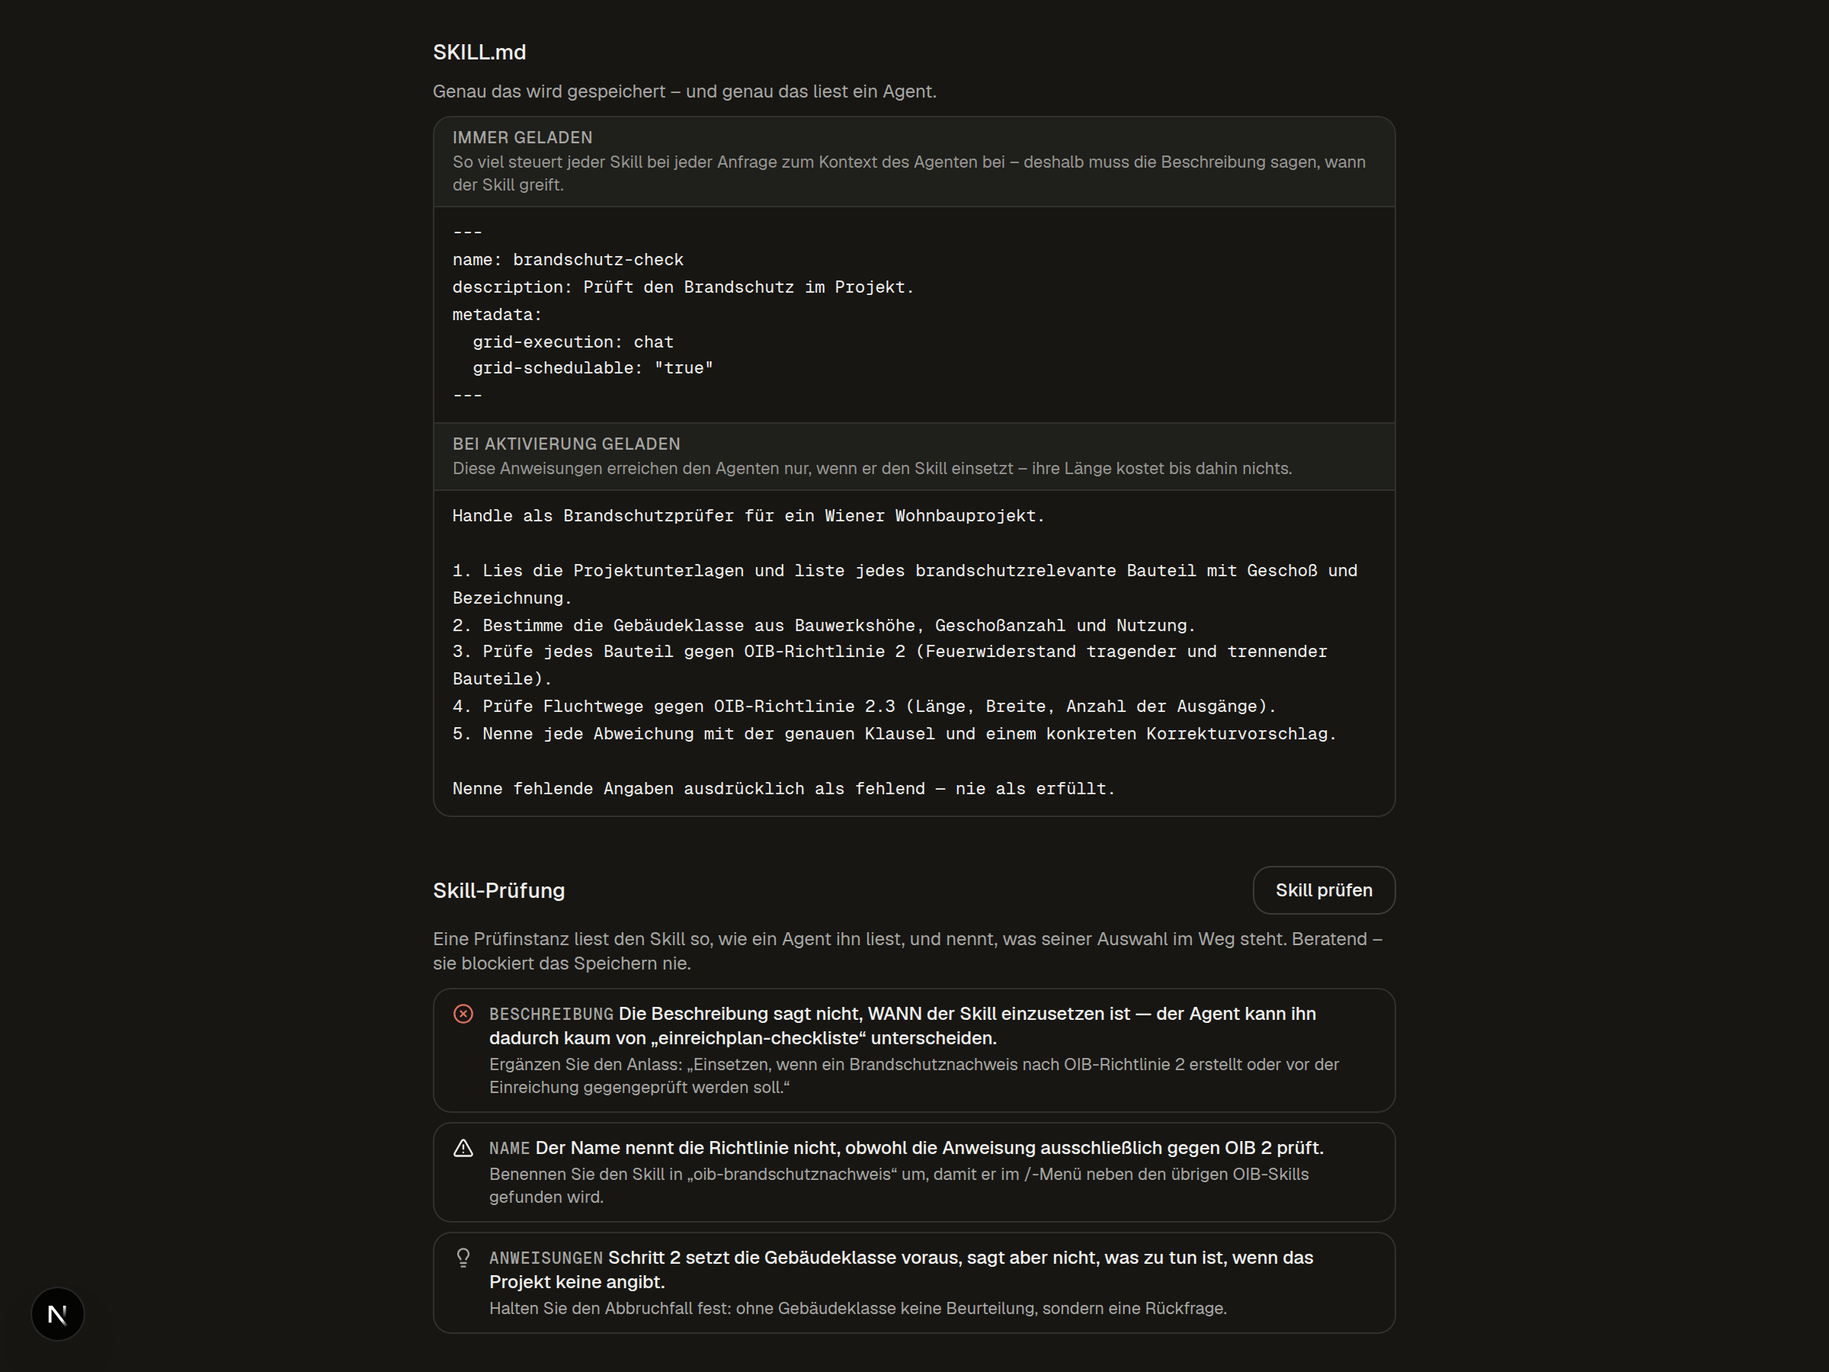
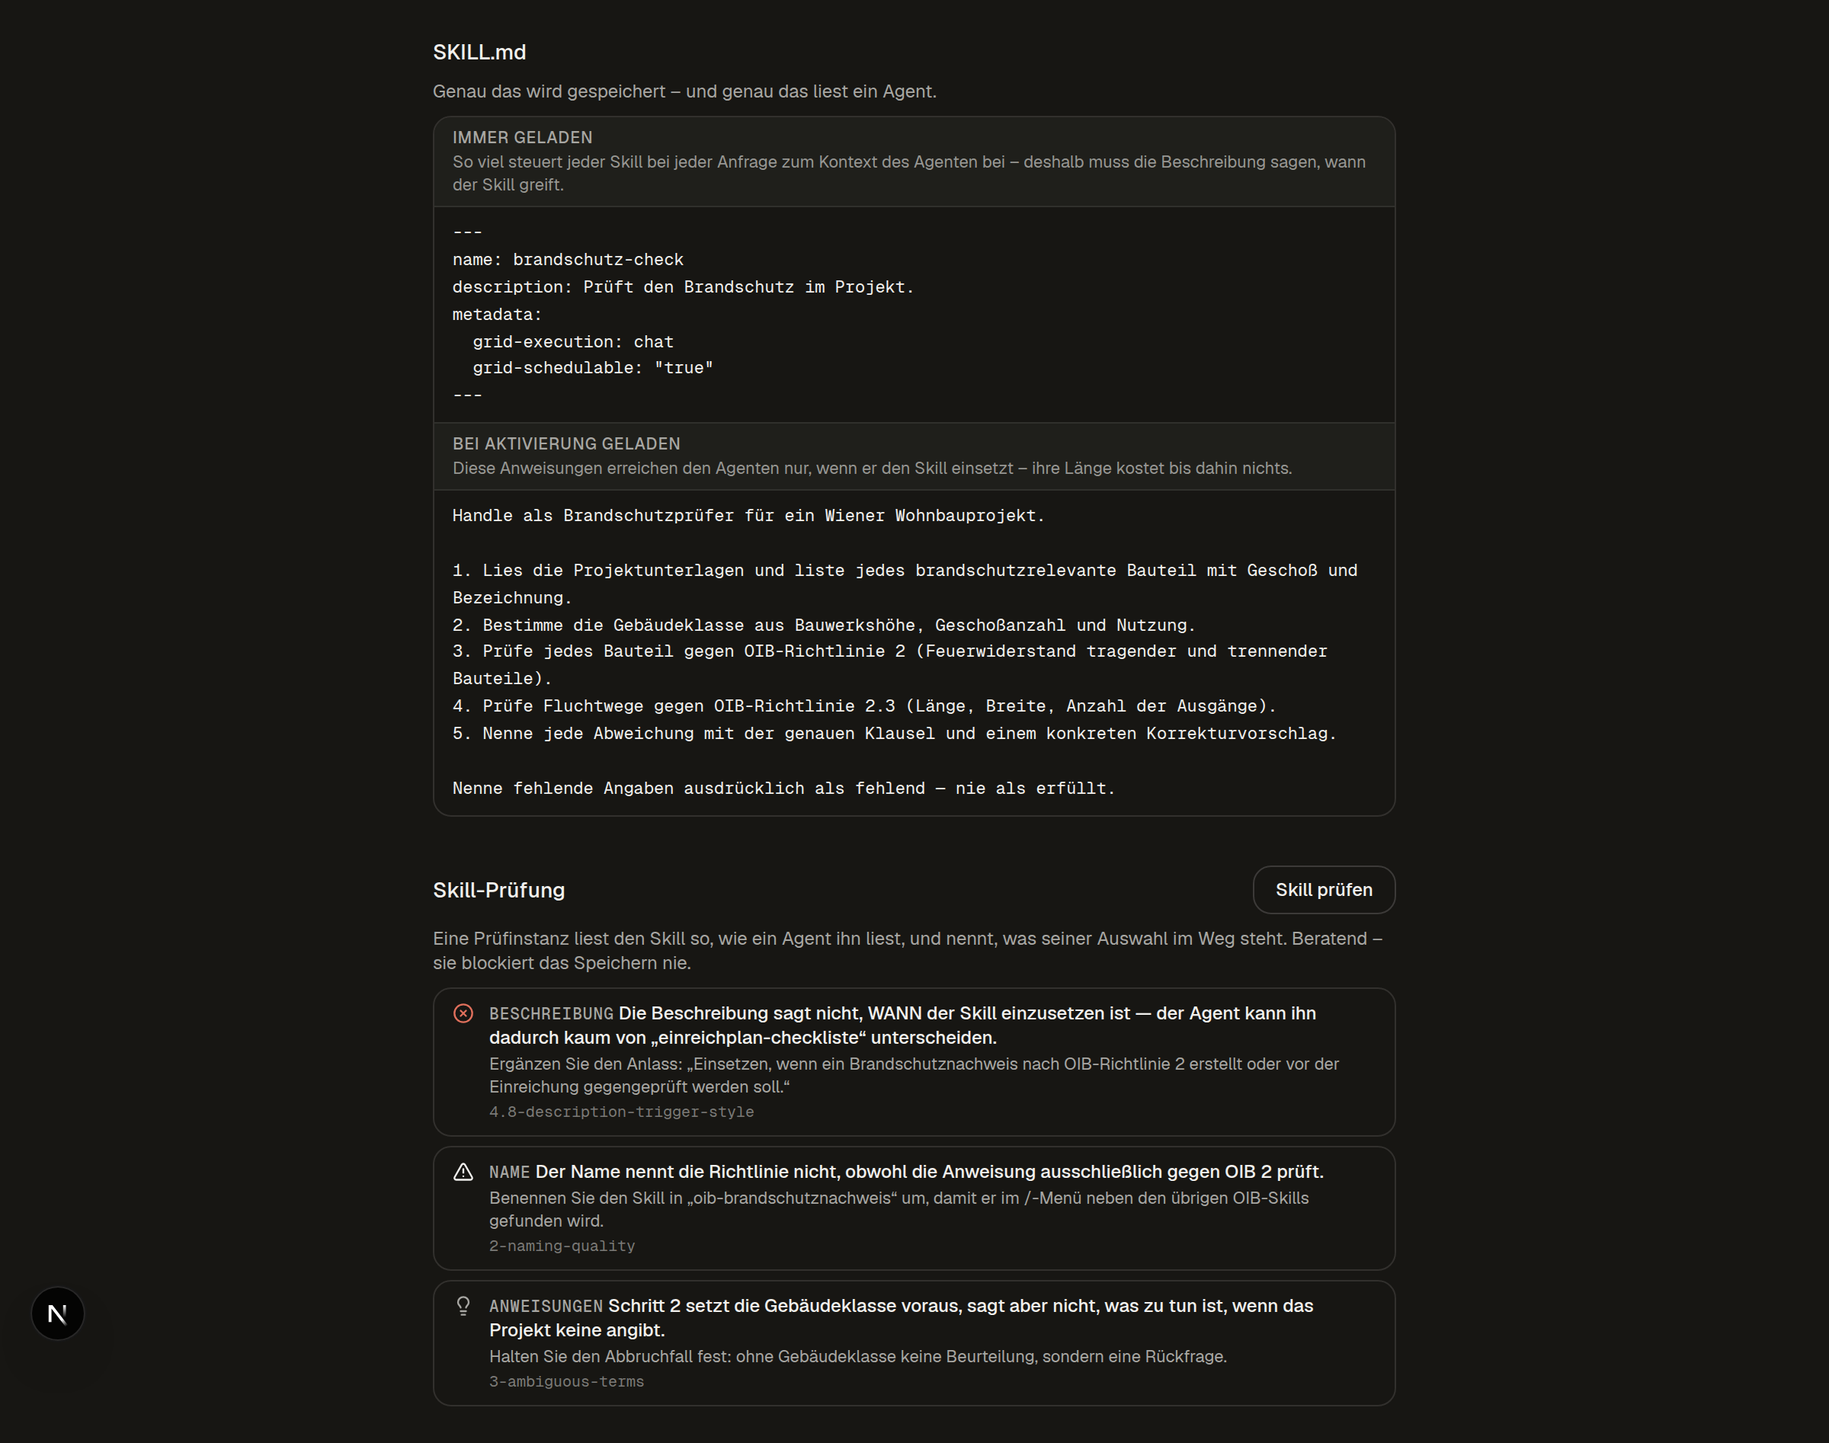
feat(skills): let a finding cite the rule that produced it
The backend reviewer emits the rulebook check id behind each finding, but the
BFF rebuilt every finding field-by-field and silently dropped it, so the UI
never saw provenance the endpoint was already sending.

Carried through now, and shown — muted, monospace, last. It is what turns a
complaint into a citation: an author who disagrees with "the description does
not say WHEN" can go read `4.8-description-trigger-style` instead of arguing
with a verdict. A finding the reviewer did not attribute simply carries none,
rather than an empty line pretending to be provenance.

An over-long id is dropped rather than truncated, on both sides of the wire: a
cut id points at a rule that does not exist, which is worse than no id at all.

Claude-Session: https://claude.ai/code/session_018sZbwcfwp2uQCjtGgFHwnG

diff --git a/frontends/ui/src/lib/skills/review.ts b/frontends/ui/src/lib/skills/review.ts
@@ -43,6 +43,14 @@ export interface SkillReviewFinding {
   message: string
   /** What to do about it. */
   fix: string
+  /**
+   * The rulebook check this came from (e.g. `4.8-description-trigger-style`),
+   * or `''` when the reviewer named none.
+   *
+   * Carried through rather than dropped: it is what makes a finding a citation
+   * instead of an opinion. An author who disagrees can go read the rule.
+   */
+  check: string
 }
 
 export interface SkillReviewResult {
@@ -60,6 +68,8 @@ export interface SkillReviewInput {
 /** Defensive bounds on a model-authored list, applied before it reaches a UI. */
 const MAX_FINDINGS = 12
 const MAX_TEXT = 400
+/** A check id is a short token; anything longer is not one. */
+const MAX_CHECK = 64
 
 function toFinding(raw: unknown): SkillReviewFinding | null {
   if (!raw || typeof raw !== 'object') return null
@@ -71,11 +81,15 @@ function toFinding(raw: unknown): SkillReviewFinding | null {
   if (!SKILL_FINDING_SEVERITIES.includes(severity as SkillFindingSeverity)) return null
   if (!SKILL_FINDING_FIELDS.includes(field as SkillFindingField)) return null
   if (typeof message !== 'string' || !message.trim()) return null
+  // A TRUNCATED id would point at a rule that does not exist, so an over-long
+  // one is dropped rather than cut — the finding survives without provenance.
+  const check = typeof entry.check === 'string' ? entry.check.trim() : ''
   return {
     severity: severity as SkillFindingSeverity,
     field: field as SkillFindingField,
     message: message.trim().slice(0, MAX_TEXT),
     fix: typeof fix === 'string' ? fix.trim().slice(0, MAX_TEXT) : '',
+    check: check.length <= MAX_CHECK ? check : '',
   }
 }
 

diff --git a/frontends/ui/src/app/dev/skill-editor/page.tsx b/frontends/ui/src/app/dev/skill-editor/page.tsx
@@ -55,6 +55,7 @@ const FINDINGS = {
     {
       severity: 'error',
       field: 'description',
+      check: '4.8-description-trigger-style',
       message:
         'Die Beschreibung sagt nicht, WANN der Skill einzusetzen ist — der Agent kann ihn dadurch kaum von „einreichplan-checkliste“ unterscheiden.',
       fix: 'Ergänzen Sie den Anlass: „Einsetzen, wenn ein Brandschutznachweis nach OIB-Richtlinie 2 erstellt oder vor der Einreichung gegengeprüft werden soll.“',
@@ -62,6 +63,7 @@ const FINDINGS = {
     {
       severity: 'warning',
       field: 'name',
+      check: '2-naming-quality',
       message:
         'Der Name nennt die Richtlinie nicht, obwohl die Anweisung ausschließlich gegen OIB 2 prüft.',
       fix: 'Benennen Sie den Skill in „oib-brandschutznachweis“ um, damit er im /-Menü neben den übrigen OIB-Skills gefunden wird.',
@@ -69,6 +71,7 @@ const FINDINGS = {
     {
       severity: 'suggestion',
       field: 'body',
+      check: '3-ambiguous-terms',
       message:
         'Schritt 2 setzt die Gebäudeklasse voraus, sagt aber nicht, was zu tun ist, wenn das Projekt keine angibt.',
       fix: 'Halten Sie den Abbruchfall fest: ohne Gebäudeklasse keine Beurteilung, sondern eine Rückfrage.',

diff --git a/frontends/ui/src/features/skills/components/skill-review-panel.spec.tsx b/frontends/ui/src/features/skills/components/skill-review-panel.spec.tsx
@@ -62,6 +62,30 @@ describe('SkillReviewPanel', () => {
     expect(items[0].textContent).toContain('Add one.')
   })
 
+  it('cites the rule that produced a finding, when the reviewer named one', async () => {
+    reviewSkill.mockResolvedValue({
+      findings: [
+        {
+          severity: 'warning',
+          field: 'description',
+          message: 'No WHEN clause.',
+          fix: 'Add one.',
+          check: '4.8-description-trigger-style',
+        },
+        { severity: 'suggestion', field: 'body', message: 'Add an example.', fix: '', check: '' },
+      ],
+    })
+    const user = userEvent.setup()
+    render(<SkillReviewPanel {...DRAFT} />)
+    await user.click(screen.getByRole('button'))
+
+    expect(await screen.findByText('4.8-description-trigger-style')).toBeInTheDocument()
+    // …and a finding without a named rule simply carries none, rather than an
+    // empty line pretending to be provenance.
+    const items = screen.getAllByRole('listitem')
+    expect(items[1].textContent).not.toContain('4.8')
+  })
+
   it('says the skill is clean only when the reviewer actually returned nothing', async () => {
     reviewSkill.mockResolvedValue({ findings: [] })
     const user = userEvent.setup()

diff --git a/frontends/ui/src/features/skills/components/SkillReviewPanel.tsx b/frontends/ui/src/features/skills/components/SkillReviewPanel.tsx
@@ -146,6 +146,15 @@ export const SkillReviewPanel: FC<SkillReviewPanelProps> = ({
                   {finding.fix && (
                     <p className="text-muted-foreground text-[11px] leading-snug">{finding.fix}</p>
                   )}
+                  {/* The rule that produced this, quietly. It is what turns a
+                      complaint into a citation — an author who disagrees can go
+                      read the rule instead of arguing with a verdict. Muted and
+                      last, because it is provenance, not the point. */}
+                  {finding.check && (
+                    <p className="text-muted-foreground/70 font-mono text-[10px] leading-snug">
+                      {finding.check}
+                    </p>
+                  )}
                 </div>
               </li>
             )

diff --git a/frontends/ui/src/adapters/api/skills-client.ts b/frontends/ui/src/adapters/api/skills-client.ts
@@ -232,6 +232,8 @@ export interface SkillReviewFinding {
   field: 'name' | 'description' | 'body'
   message: string
   fix: string
+  /** The rulebook check that produced this, or '' when none was named. */
+  check?: string
 }
 
 export interface SkillReviewResult {

diff --git a/src/aiq_agent/skills/models.py b/src/aiq_agent/skills/models.py
@@ -7,7 +7,8 @@ The agentskills.io format contract:
 - ``license``: optional free-form string.
 - ``compatibility``: optional, at most 500 chars.
 - ``metadata``: map of strings; reserved GRID keys are validated
-  (``grid-execution`` must be ``chat`` | ``deep-research``).
+  (``grid-execution`` must be ``chat`` | ``deep-research``; ``grid-cards`` must
+  name known, non-system Grid card types).
 - ``allowed-tools``: optional free-form string (tool-level allowlist).
 - Body: markdown; <500 lines recommended, not enforced.
 
@@ -39,9 +40,20 @@ MAX_COMPATIBILITY_CHARS = 500
 
 #: Reserved GRID metadata keys. ``grid-agents`` is a comma-separated agent
 #: name list (absent = all agents). ``grid-schedulable`` is a schedulability
-#: marker. ``grid-execution`` selects the execution mode.
-GRID_METADATA_KEYS = frozenset({"grid-execution", "grid-schedulable", "grid-agents"})
+#: marker. ``grid-execution`` selects the execution mode. ``grid-cards`` is a
+#: comma-separated list of preferred Grid output card types.
+GRID_METADATA_KEYS = frozenset({"grid-execution", "grid-schedulable", "grid-agents", "grid-cards"})
 GRID_EXECUTION_VALUES = frozenset({"chat", "deep-research"})
+
+#: ``grid-cards`` — the card types a skill would LIKE its answers rendered as.
+#:
+#: A preference, not a contract: it costs nothing until the skill is activated,
+#: at which point ``SkillRuntime`` appends a short block naming these types to
+#: the skill body. Values are card ``type`` literals from the ``GridCard``
+#: union, minus ``SYSTEM_CARD_TYPES`` — a system card is emitted by a tool on a
+#: sanctioned path, so naming one here would be asking the model to fabricate
+#: something it must never produce.
+GRID_CARDS_KEY = "grid-cards"
 
 #: Anything that looks like an XML/HTML tag.
 #:
@@ -137,7 +149,62 @@ def _pop_allowed_tools(payload: dict[str, Any]) -> str | None:
     return value if isinstance(value, str) else None
 
 
-def _validate_metadata(metadata: Any) -> dict[str, str]:
+def split_metadata_list(raw: str) -> list[str]:
+    """Split a reserved comma-list value: trimmed, empties dropped, order kept.
+
+    Deduplicated because these lists are read as sets of preferences, and a name
+    repeated in the frontmatter should not be repeated back at the model.
+    """
+    seen: set[str] = set()
+    out: list[str] = []
+    for part in raw.split(","):
+        name = part.strip()
+        if name and name not in seen:
+            seen.add(name)
+            out.append(name)
+    return out
+
+
+def _validate_grid_cards(value: str, *, strict: bool) -> str | None:
+    """Validate ``grid-cards`` against the model-facing card catalog.
+
+    Returns the value to store, or ``None`` when nothing usable is left and the
+    key should be dropped entirely.
+
+    Two tolerances, matching how the two sources of skills fail. A SKILL.md is
+    authored in this repo and reviewed, so a name that no longer exists is a
+    typo we want to hear about at parse time (``strict``). A BFF-served org row
+    is tenant data arriving over the wire, where one stale name must not delete
+    the whole skill from the toolbox — so the bad entries are logged and dropped
+    and the rest of the row survives, exactly as the resolver treats an unknown
+    ``grid-agents`` name.
+
+    A SYSTEM card is rejected on both paths and never merely downgraded: it is
+    emitted by a tool on a sanctioned path, and telling the model to produce one
+    would be inviting it to fabricate a card the product treats as trustworthy.
+    """
+    from aiq_agent.cards.catalog import model_facing_card_types
+
+    known = model_facing_card_types()
+    names = split_metadata_list(value)
+    unknown = [name for name in names if name not in known]
+    if unknown and strict:
+        raise SkillValidationError(
+            f"Skill metadata {GRID_CARDS_KEY} names unknown or system card type(s) {unknown}; "
+            f"allowed: {sorted(known)}"
+        )
+    if unknown:
+        logger.warning(
+            "Dropping unknown or system card type(s) from %s: %s (known: %s)",
+            GRID_CARDS_KEY,
+            unknown,
+            sorted(known),
+        )
+    kept = [name for name in names if name in known]
+    return ",".join(kept) if kept else None
+
+
+def _validate_metadata(metadata: Any, *, strict: bool = True) -> dict[str, str]:
     if metadata is None:
         return {}
     if not isinstance(metadata, dict):
@@ -150,8 +217,30 @@ def _validate_metadata(metadata: Any) -> dict[str, str]:
             raise SkillValidationError(
                 f"Skill metadata grid-execution must be one of {sorted(GRID_EXECUTION_VALUES)}, got {value!r}"
             )
+        if key == GRID_CARDS_KEY:
+            cards = _validate_grid_cards(value, strict=strict)
+            if cards is None:
+                continue
+            validated[key] = cards
+            continue
         validated[key] = value
     return validated
+
+
+def preferred_cards(metadata: dict[str, str]) -> tuple[str, ...]:
+    """The card types a skill prefers, in author order; ``()`` when unset.
+
+    Filtered against the catalog on read as well as on write: a skill snapshot
+    persisted before a card type was retired would otherwise name a card the
+    renderer no longer has.
+    """
+    from aiq_agent.cards.catalog import model_facing_card_types
+
+    raw = metadata.get(GRID_CARDS_KEY)
+    if not raw:
+        return ()
+    known = model_facing_card_types()
+    return tuple(name for name in split_metadata_list(raw) if name in known)
 
 
 def build_skill_from_payload(
@@ -164,11 +253,15 @@ def build_skill_from_payload(
 
     Raises :class:`SkillValidationError` on any contract violation — the shared
     strict path for both builtin files and org rows.
+
+    The one deliberate softening is ``origin="org"``: a tenant row's reserved
+    comma-lists are validated leniently (unknown entries logged and dropped)
+    rather than taking the whole skill down. Everything structural still errors.
     """
     payload = dict(payload)
     name = _validate_name(payload.get("name"), expected_dir_name=None)
     description = _validate_description(payload.get("description"))
-    metadata = _validate_metadata(payload.get("metadata"))
+    metadata = _validate_metadata(payload.get("metadata"), strict=origin != "org")
     body = payload.get("body")
     if not isinstance(body, str):
         raise SkillValidationError(f"Skill {name!r} body must be a string")

diff --git a/src/aiq_agent/cards/catalog.py b/src/aiq_agent/cards/catalog.py
@@ -12,6 +12,7 @@ Deliberately free of NAT/tooling imports so it can be imported from either
 surface without triggering tool registration side effects.
 """
 
+import functools
 import json
 import types
 import typing
@@ -247,6 +248,29 @@ CARD_EXAMPLES: dict[str, dict] = {
 }
 
 
+def _card_type_of(card_cls: type) -> str:
+    """The ``type`` literal of a card class (``"summary"``, …)."""
+    return getattr(card_cls.model_fields["type"].annotation, "__args__", ("?",))[0]
+
+
+@functools.lru_cache(maxsize=1)
+def model_facing_card_types() -> frozenset[str]:
+    """Every card ``type`` the model may be ASKED to produce.
+
+    The union minus :data:`SYSTEM_CARD_TYPES` — i.e. exactly the set
+    :func:`render_card_catalog` advertises. It is exposed separately because
+    other surfaces need to answer "may a skill/author name this card?" without
+    parsing the rendered catalog text: the skills substrate validates
+    ``grid-cards`` against it (see :mod:`aiq_agent.skills.models`), and the
+    editor's picker derives the same set from the generated Zod schemas. One
+    definition of "advertisable", so a new card type appears everywhere at once
+    and a system card can never be requested by name.
+    """
+    from aiq_agent.cards.models import GridCard
+
+    return frozenset(_card_type_of(c) for c in GridCard.__args__) - SYSTEM_CARD_TYPES
+
+
 def _annotation_str(annotation: object, nested: list[type]) -> str:
     """Render a field annotation as a compact JSON-ish type string.
 
@@ -318,8 +342,7 @@ def shape_hint_for(card_type: str) -> str | None:
     from aiq_agent.cards.models import GridCard
 
     for card_cls in GridCard.__args__:
-        type_value = getattr(card_cls.model_fields["type"].annotation, "__args__", ("?",))[0]
-        if type_value != card_type:
+        if _card_type_of(card_cls) != card_type:
             continue
         nested: list[type] = []
         body = _card_shape(card_cls, nested)
@@ -355,7 +378,7 @@ def render_card_catalog() -> str:
     nested: list[type] = []
     card_lines: list[str] = []
     for card_cls in GridCard.__args__:
-        type_value = getattr(card_cls.model_fields["type"].annotation, "__args__", ("?",))[0]
+        type_value = _card_type_of(card_cls)
         # System cards are emitted by tools on sanctioned paths, never by the
         # model — omit them so the model can't fabricate them.
         if type_value in SYSTEM_CARD_TYPES:

diff --git a/src/aiq_agent/skills/runtime.py b/src/aiq_agent/skills/runtime.py
@@ -16,6 +16,7 @@ from __future__ import annotations
 import logging
 
 from .models import Skill
+from .models import preferred_cards
 
 logger = logging.getLogger(__name__)
 
@@ -33,6 +34,30 @@ _TOOL_DESCRIPTION = (
     "Load the full instructions of a skill by name before following them. "
     "Call this once per skill you intend to use; it returns the complete skill body."
 )
+
+_CARDS_HEADING = "## Bevorzugte Cards"
+_CARDS_DOCTRINE = (
+    "Wenn der Inhalt es hergibt, gib das Ergebnis als eine dieser Cards aus: {types}. "
+    "Das ist eine Präferenz des Skill-Autors, keine Vorgabe — passt keine davon zum "
+    "Ergebnis, wähle die passende Card oder antworte in Prosa. Erfinde nie Inhalte, "
+    "nur damit eine dieser Cards ausgefüllt werden kann."
+)
+
+
+def _preferred_cards_block(skill: Skill) -> str | None:
+    """The ``grid-cards`` block appended to a body on activation, or None.
+
+    Deliberately appended HERE and not in ``prompt_block``: the level-1 catalog
+    is paid for on every turn by every skill, and a card preference is worth
+    nothing until the skill is actually in play. The phrasing stays a preference
+    on purpose — an author naming three cards must not be able to force a
+    ``comparison_table`` onto an answer that has nothing to compare.
+    """
+    cards = preferred_cards(skill.metadata)
+    if not cards:
+        return None
+    types = ", ".join(f"`{card}`" for card in cards)
+    return f"{_CARDS_HEADING}\n{_CARDS_DOCTRINE.format(types=types)}"
 
 
 class SkillRuntime:
@@ -118,7 +143,8 @@ class SkillRuntime:
                     f"Rufe `{_TOOL_NAME}` mit einem dieser Namen auf."
                 )
             runtime._record_activation(skill_name)
-            return skill.body
+            cards_block = _preferred_cards_block(skill)
+            return f"{skill.body}\n\n{cards_block}" if cards_block else skill.body
 
         use_skill.description = _TOOL_DESCRIPTION
         return [use_skill]

diff --git a/src/aiq_agent/skills/__init__.py b/src/aiq_agent/skills/__init__.py
@@ -8,17 +8,20 @@ org-authored skills are served by the BFF internal endpoint
 
 from .builtin import BUILTIN_SKILLS_DIR
 from .builtin import discover_builtin_skills
+from .models import GRID_CARDS_KEY
 from .models import GRID_METADATA_KEYS
 from .models import MAX_DESCRIPTION_CHARS
 from .models import MAX_NAME_CHARS
 from .models import Skill
 from .models import SkillValidationError
 from .models import parse_skill_md
+from .models import preferred_cards
 from .resolver import SkillResolver
 from .runtime import SkillRuntime
 
 __all__ = [
     "BUILTIN_SKILLS_DIR",
+    "GRID_CARDS_KEY",
     "GRID_METADATA_KEYS",
     "MAX_DESCRIPTION_CHARS",
     "MAX_NAME_CHARS",
@@ -28,4 +31,5 @@ __all__ = [
     "SkillValidationError",
     "discover_builtin_skills",
     "parse_skill_md",
+    "preferred_cards",
 ]
